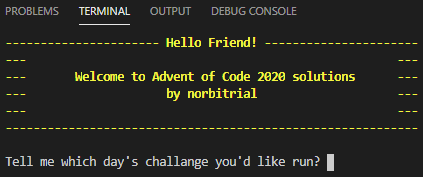
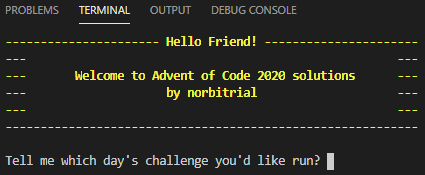
Corrected typo

diff --git a/src/index.ts b/src/index.ts
@@ -39,7 +39,7 @@ const logWelcome = () => {
 }
 const askForNumber = () => {
   logWelcome()
-  rl.question(`Tell me which day's challange you'd like run? `, handleAnswer);
+  rl.question(`Tell me which day's challenge you'd like run? `, handleAnswer);
 }
 const closeSession = () => {
   rl.close();
